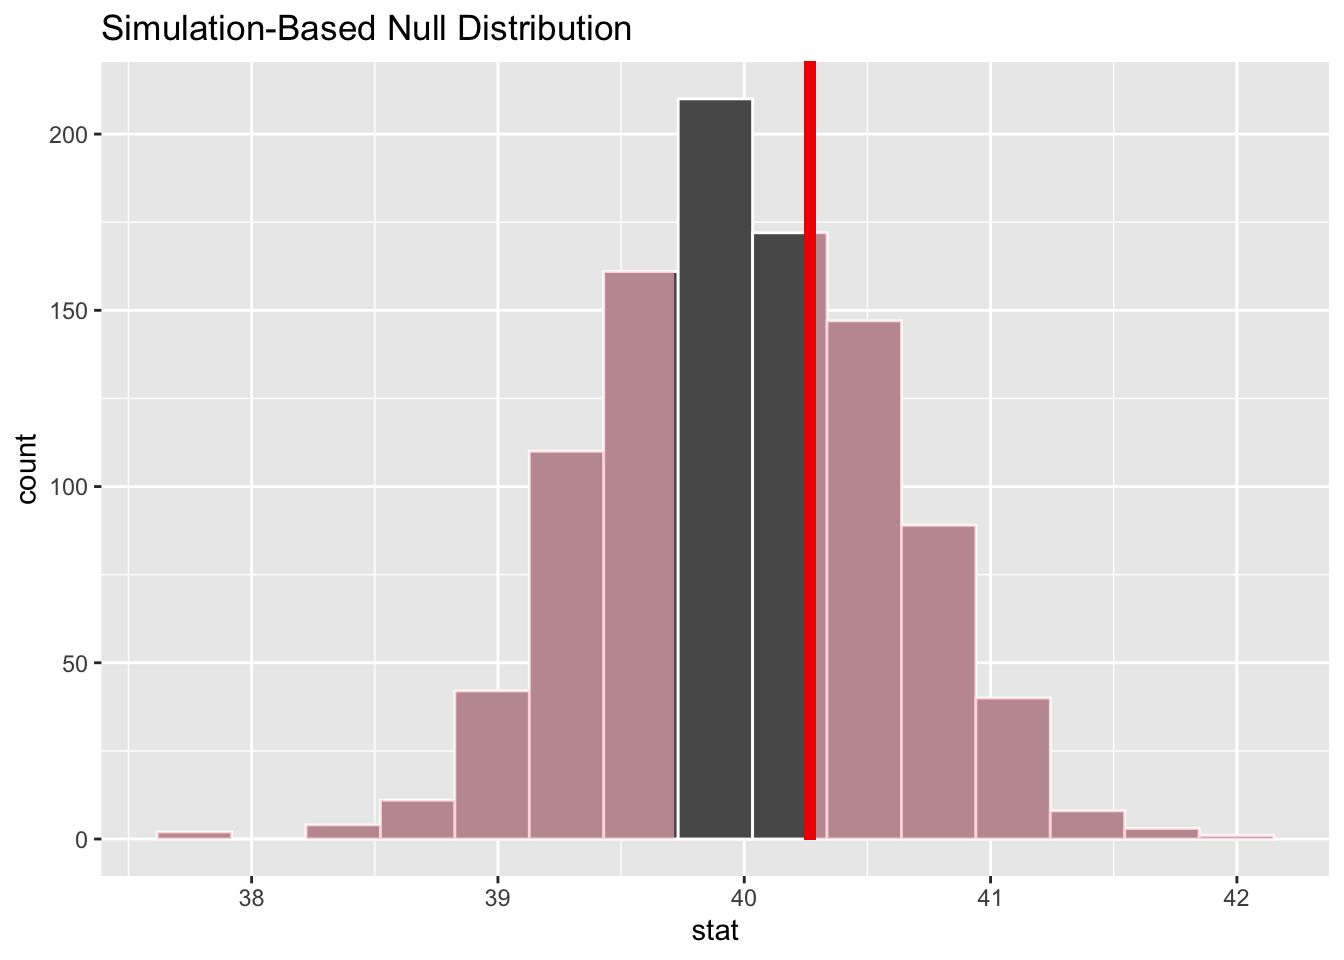
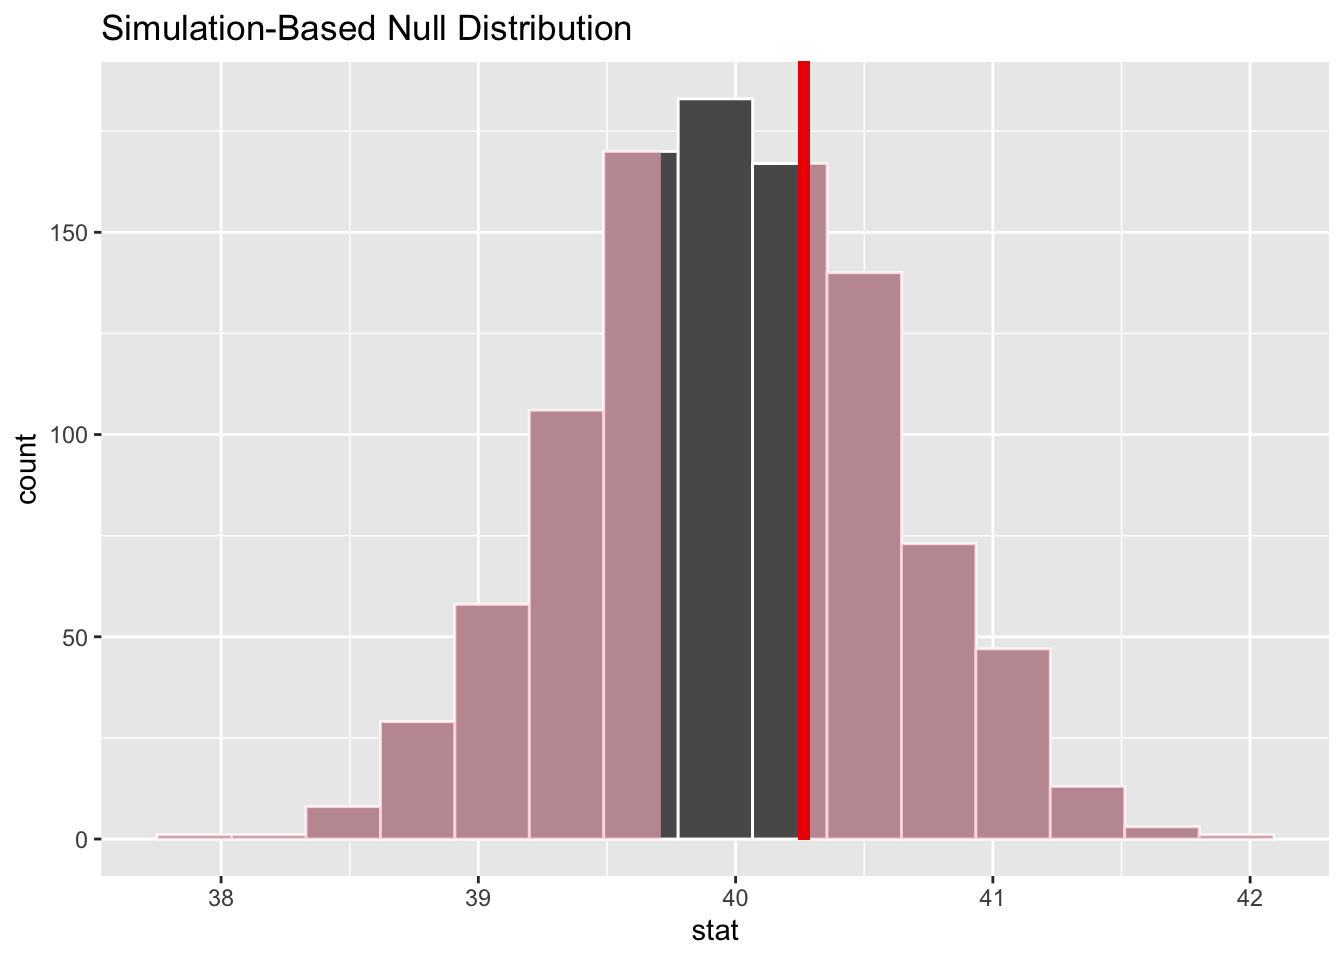
wreszcie porządek

diff --git a/docs/modeling.html b/docs/modeling.html
@@ -403,12 +403,12 @@ Ważne
 <span>  <span class="fu">gt</span><span class="fu">::</span><span class="fu"><a href="https://gt.rstudio.com/reference/gt.html">gt</a></span><span class="op">(</span><span class="op">)</span></span></code><button title="Kopiuj do schowka" class="code-copy-button"><i class="bi"></i></button></pre></div>
 </details><div class="cell-output-display">
 
-<div id="mepzbfloqm" style="padding-left:0px;padding-right:0px;padding-top:10px;padding-bottom:10px;overflow-x:auto;overflow-y:auto;width:auto;height:auto;">
+<div id="yctnppdcye" style="padding-left:0px;padding-right:0px;padding-top:10px;padding-bottom:10px;overflow-x:auto;overflow-y:auto;width:auto;height:auto;">
 <style>html {
   font-family: -apple-system, BlinkMacSystemFont, 'Segoe UI', Roboto, Oxygen, Ubuntu, Cantarell, 'Helvetica Neue', 'Fira Sans', 'Droid Sans', Arial, sans-serif;
 }
 
-#mepzbfloqm .gt_table {
+#yctnppdcye .gt_table {
   display: table;
   border-collapse: collapse;
   margin-left: auto;
@@ -433,7 +433,7 @@ Ważne
   border-left-color: #D3D3D3;
 }
 
-#mepzbfloqm .gt_heading {
+#yctnppdcye .gt_heading {
   background-color: #FFFFFF;
   text-align: center;
   border-bottom-color: #FFFFFF;
@@ -445,12 +445,12 @@ Ważne
   border-right-color: #D3D3D3;
 }
 
-#mepzbfloqm .gt_caption {
+#yctnppdcye .gt_caption {
   padding-top: 4px;
   padding-bottom: 4px;
 }
 
-#mepzbfloqm .gt_title {
+#yctnppdcye .gt_title {
   color: #333333;
   font-size: 125%;
   font-weight: initial;
@@ -462,7 +462,7 @@ Ważne
   border-bottom-width: 0;
 }
 
-#mepzbfloqm .gt_subtitle {
+#yctnppdcye .gt_subtitle {
   color: #333333;
   font-size: 85%;
   font-weight: initial;
@@ -474,13 +474,13 @@ Ważne
   border-top-width: 0;
 }
 
-#mepzbfloqm .gt_bottom_border {
+#yctnppdcye .gt_bottom_border {
   border-bottom-style: solid;
   border-bottom-width: 2px;
   border-bottom-color: #D3D3D3;
 }
 
-#mepzbfloqm .gt_col_headings {
+#yctnppdcye .gt_col_headings {
   border-top-style: solid;
   border-top-width: 2px;
   border-top-color: #D3D3D3;
@@ -495,7 +495,7 @@ Ważne
   border-right-color: #D3D3D3;
 }
 
-#mepzbfloqm .gt_col_heading {
+#yctnppdcye .gt_col_heading {
   color: #333333;
   background-color: #FFFFFF;
   font-size: 100%;
@@ -515,7 +515,7 @@ Ważne
   overflow-x: hidden;
 }
 
-#mepzbfloqm .gt_column_spanner_outer {
+#yctnppdcye .gt_column_spanner_outer {
   color: #333333;
   background-color: #FFFFFF;
   font-size: 100%;
@@ -527,15 +527,15 @@ Ważne
   padding-right: 4px;
 }
 
-#mepzbfloqm .gt_column_spanner_outer:first-child {
+#yctnppdcye .gt_column_spanner_outer:first-child {
   padding-left: 0;
 }
 
-#mepzbfloqm .gt_column_spanner_outer:last-child {
+#yctnppdcye .gt_column_spanner_outer:last-child {
   padding-right: 0;
 }
 
-#mepzbfloqm .gt_column_spanner {
+#yctnppdcye .gt_column_spanner {
   border-bottom-style: solid;
   border-bottom-width: 2px;
   border-bottom-color: #D3D3D3;
@@ -547,7 +547,7 @@ Ważne
   width: 100%;
 }
 
-#mepzbfloqm .gt_group_heading {
+#yctnppdcye .gt_group_heading {
   padding-top: 8px;
   padding-bottom: 8px;
   padding-left: 5px;
@@ -573,7 +573,7 @@ Ważne
   text-align: left;
 }
 
-#mepzbfloqm .gt_empty_group_heading {
+#yctnppdcye .gt_empty_group_heading {
   padding: 0.5px;
   color: #333333;
   background-color: #FFFFFF;
@@ -588,15 +588,15 @@ Ważne
   vertical-align: middle;
 }
 
-#mepzbfloqm .gt_from_md > :first-child {
+#yctnppdcye .gt_from_md > :first-child {
   margin-top: 0;
 }
 
-#mepzbfloqm .gt_from_md > :last-child {
+#yctnppdcye .gt_from_md > :last-child {
   margin-bottom: 0;
 }
 
-#mepzbfloqm .gt_row {
+#yctnppdcye .gt_row {
   padding-top: 8px;
   padding-bottom: 8px;
   padding-left: 5px;
@@ -615,7 +615,7 @@ Ważne
   overflow-x: hidden;
 }
 
-#mepzbfloqm .gt_stub {
+#yctnppdcye .gt_stub {
   color: #333333;
   background-color: #FFFFFF;
   font-size: 100%;
@@ -628,7 +628,7 @@ Ważne
   padding-right: 5px;
 }
 
-#mepzbfloqm .gt_stub_row_group {
+#yctnppdcye .gt_stub_row_group {
   color: #333333;
   background-color: #FFFFFF;
   font-size: 100%;
@@ -642,11 +642,11 @@ Ważne
   vertical-align: top;
 }
 
-#mepzbfloqm .gt_row_group_first td {
+#yctnppdcye .gt_row_group_first td {
   border-top-width: 2px;
 }
 
-#mepzbfloqm .gt_summary_row {
+#yctnppdcye .gt_summary_row {
   color: #333333;
   background-color: #FFFFFF;
   text-transform: inherit;
@@ -656,16 +656,16 @@ Ważne
   padding-right: 5px;
 }
 
-#mepzbfloqm .gt_first_summary_row {
+#yctnppdcye .gt_first_summary_row {
   border-top-style: solid;
   border-top-color: #D3D3D3;
 }
 
-#mepzbfloqm .gt_first_summary_row.thick {
+#yctnppdcye .gt_first_summary_row.thick {
   border-top-width: 2px;
 }
 
-#mepzbfloqm .gt_last_summary_row {
+#yctnppdcye .gt_last_summary_row {
   padding-top: 8px;
   padding-bottom: 8px;
   padding-left: 5px;
@@ -675,7 +675,7 @@ Ważne
   border-bottom-color: #D3D3D3;
 }
 
-#mepzbfloqm .gt_grand_summary_row {
+#yctnppdcye .gt_grand_summary_row {
   color: #333333;
   background-color: #FFFFFF;
   text-transform: inherit;
@@ -685,7 +685,7 @@ Ważne
   padding-right: 5px;
 }
 
-#mepzbfloqm .gt_first_grand_summary_row {
+#yctnppdcye .gt_first_grand_summary_row {
   padding-top: 8px;
   padding-bottom: 8px;
   padding-left: 5px;
@@ -695,11 +695,11 @@ Ważne
   border-top-color: #D3D3D3;
 }
 
-#mepzbfloqm .gt_striped {
+#yctnppdcye .gt_striped {
   background-color: rgba(128, 128, 128, 0.05);
 }
 
-#mepzbfloqm .gt_table_body {
+#yctnppdcye .gt_table_body {
   border-top-style: solid;
   border-top-width: 2px;
   border-top-color: #D3D3D3;
@@ -708,7 +708,7 @@ Ważne
   border-bottom-color: #D3D3D3;
 }
 
-#mepzbfloqm .gt_footnotes {
+#yctnppdcye .gt_footnotes {
   color: #333333;
   background-color: #FFFFFF;
   border-bottom-style: none;
@@ -722,7 +722,7 @@ Ważne
   border-right-color: #D3D3D3;
 }
 
-#mepzbfloqm .gt_footnote {
+#yctnppdcye .gt_footnote {
   margin: 0px;
   font-size: 90%;
   padding-left: 4px;
@@ -731,7 +731,7 @@ Ważne
   padding-right: 5px;
 }
 
-#mepzbfloqm .gt_sourcenotes {
+#yctnppdcye .gt_sourcenotes {
   color: #333333;
   background-color: #FFFFFF;
   border-bottom-style: none;
@@ -745,7 +745,7 @@ Ważne
   border-right-color: #D3D3D3;
 }
 
-#mepzbfloqm .gt_sourcenote {
+#yctnppdcye .gt_sourcenote {
   font-size: 90%;
   padding-top: 4px;
   padding-bottom: 4px;
@@ -753,64 +753,64 @@ Ważne
   padding-right: 5px;
 }
 
-#mepzbfloqm .gt_left {
+#yctnppdcye .gt_left {
   text-align: left;
 }
 
-#mepzbfloqm .gt_center {
+#yctnppdcye .gt_center {
   text-align: center;
 }
 
-#mepzbfloqm .gt_right {
+#yctnppdcye .gt_right {
   text-align: right;
   font-variant-numeric: tabular-nums;
 }
 
-#mepzbfloqm .gt_font_normal {
+#yctnppdcye .gt_font_normal {
   font-weight: normal;
 }
 
-#mepzbfloqm .gt_font_bold {
+#yctnppdcye .gt_font_bold {
   font-weight: bold;
 }
 
-#mepzbfloqm .gt_font_italic {
+#yctnppdcye .gt_font_italic {
   font-style: italic;
 }
 
-#mepzbfloqm .gt_super {
+#yctnppdcye .gt_super {
   font-size: 65%;
 }
 
-#mepzbfloqm .gt_footnote_marks {
+#yctnppdcye .gt_footnote_marks {
   font-style: italic;
   font-weight: normal;
   font-size: 75%;
   vertical-align: 0.4em;
 }
 
-#mepzbfloqm .gt_asterisk {
+#yctnppdcye .gt_asterisk {
   font-size: 100%;
   vertical-align: 0;
 }
 
-#mepzbfloqm .gt_indent_1 {
+#yctnppdcye .gt_indent_1 {
   text-indent: 5px;
 }
 
-#mepzbfloqm .gt_indent_2 {
+#yctnppdcye .gt_indent_2 {
   text-indent: 10px;
 }
 
-#mepzbfloqm .gt_indent_3 {
+#yctnppdcye .gt_indent_3 {
   text-indent: 15px;
 }
 
-#mepzbfloqm .gt_indent_4 {
+#yctnppdcye .gt_indent_4 {
   text-indent: 20px;
 }
 
-#mepzbfloqm .gt_indent_5 {
+#yctnppdcye .gt_indent_5 {
   text-indent: 25px;
 }
 </style>

diff --git a/docs/infer.html b/docs/infer.html
@@ -350,16 +350,16 @@ Null Hypothesis: point
 # A tibble: 1,000 × 2
    replicate  stat
        &lt;int&gt; &lt;dbl&gt;
- 1         1  40.0
- 2         2  40.2
- 3         3  39.8
- 4         4  39.7
- 5         5  39.7
- 6         6  40.3
- 7         7  39.7
- 8         8  39.6
- 9         9  38.9
-10        10  39.3
+ 1         1  39.5
+ 2         2  39.6
+ 3         3  39.9
+ 4         4  41.1
+ 5         5  39.0
+ 6         6  40.0
+ 7         7  40.1
+ 8         8  41.0
+ 9         9  39.7
+10        10  40.0
 # … with 990 more rows</code></pre>
 </div>
 <details><summary>Kod</summary><div class="sourceCode" id="cb8"><pre class="downlit sourceCode r code-with-copy"><code class="sourceCode R"><span><span class="va">sample_mean</span> <span class="op">&lt;-</span> <span class="va">gss</span> <span class="op">|&gt;</span> </span>
@@ -400,7 +400,7 @@ Null Hypothesis: point
 <pre><code># A tibble: 1 × 1
   p_value
     &lt;dbl&gt;
-1   0.638</code></pre>
+1   0.646</code></pre>
 </div>
 </div>
 <p>Wartość otrzymana z testu bootstrapowego różni się tylko nieznacznie od otrzymanej testem klasycznym.</p>
